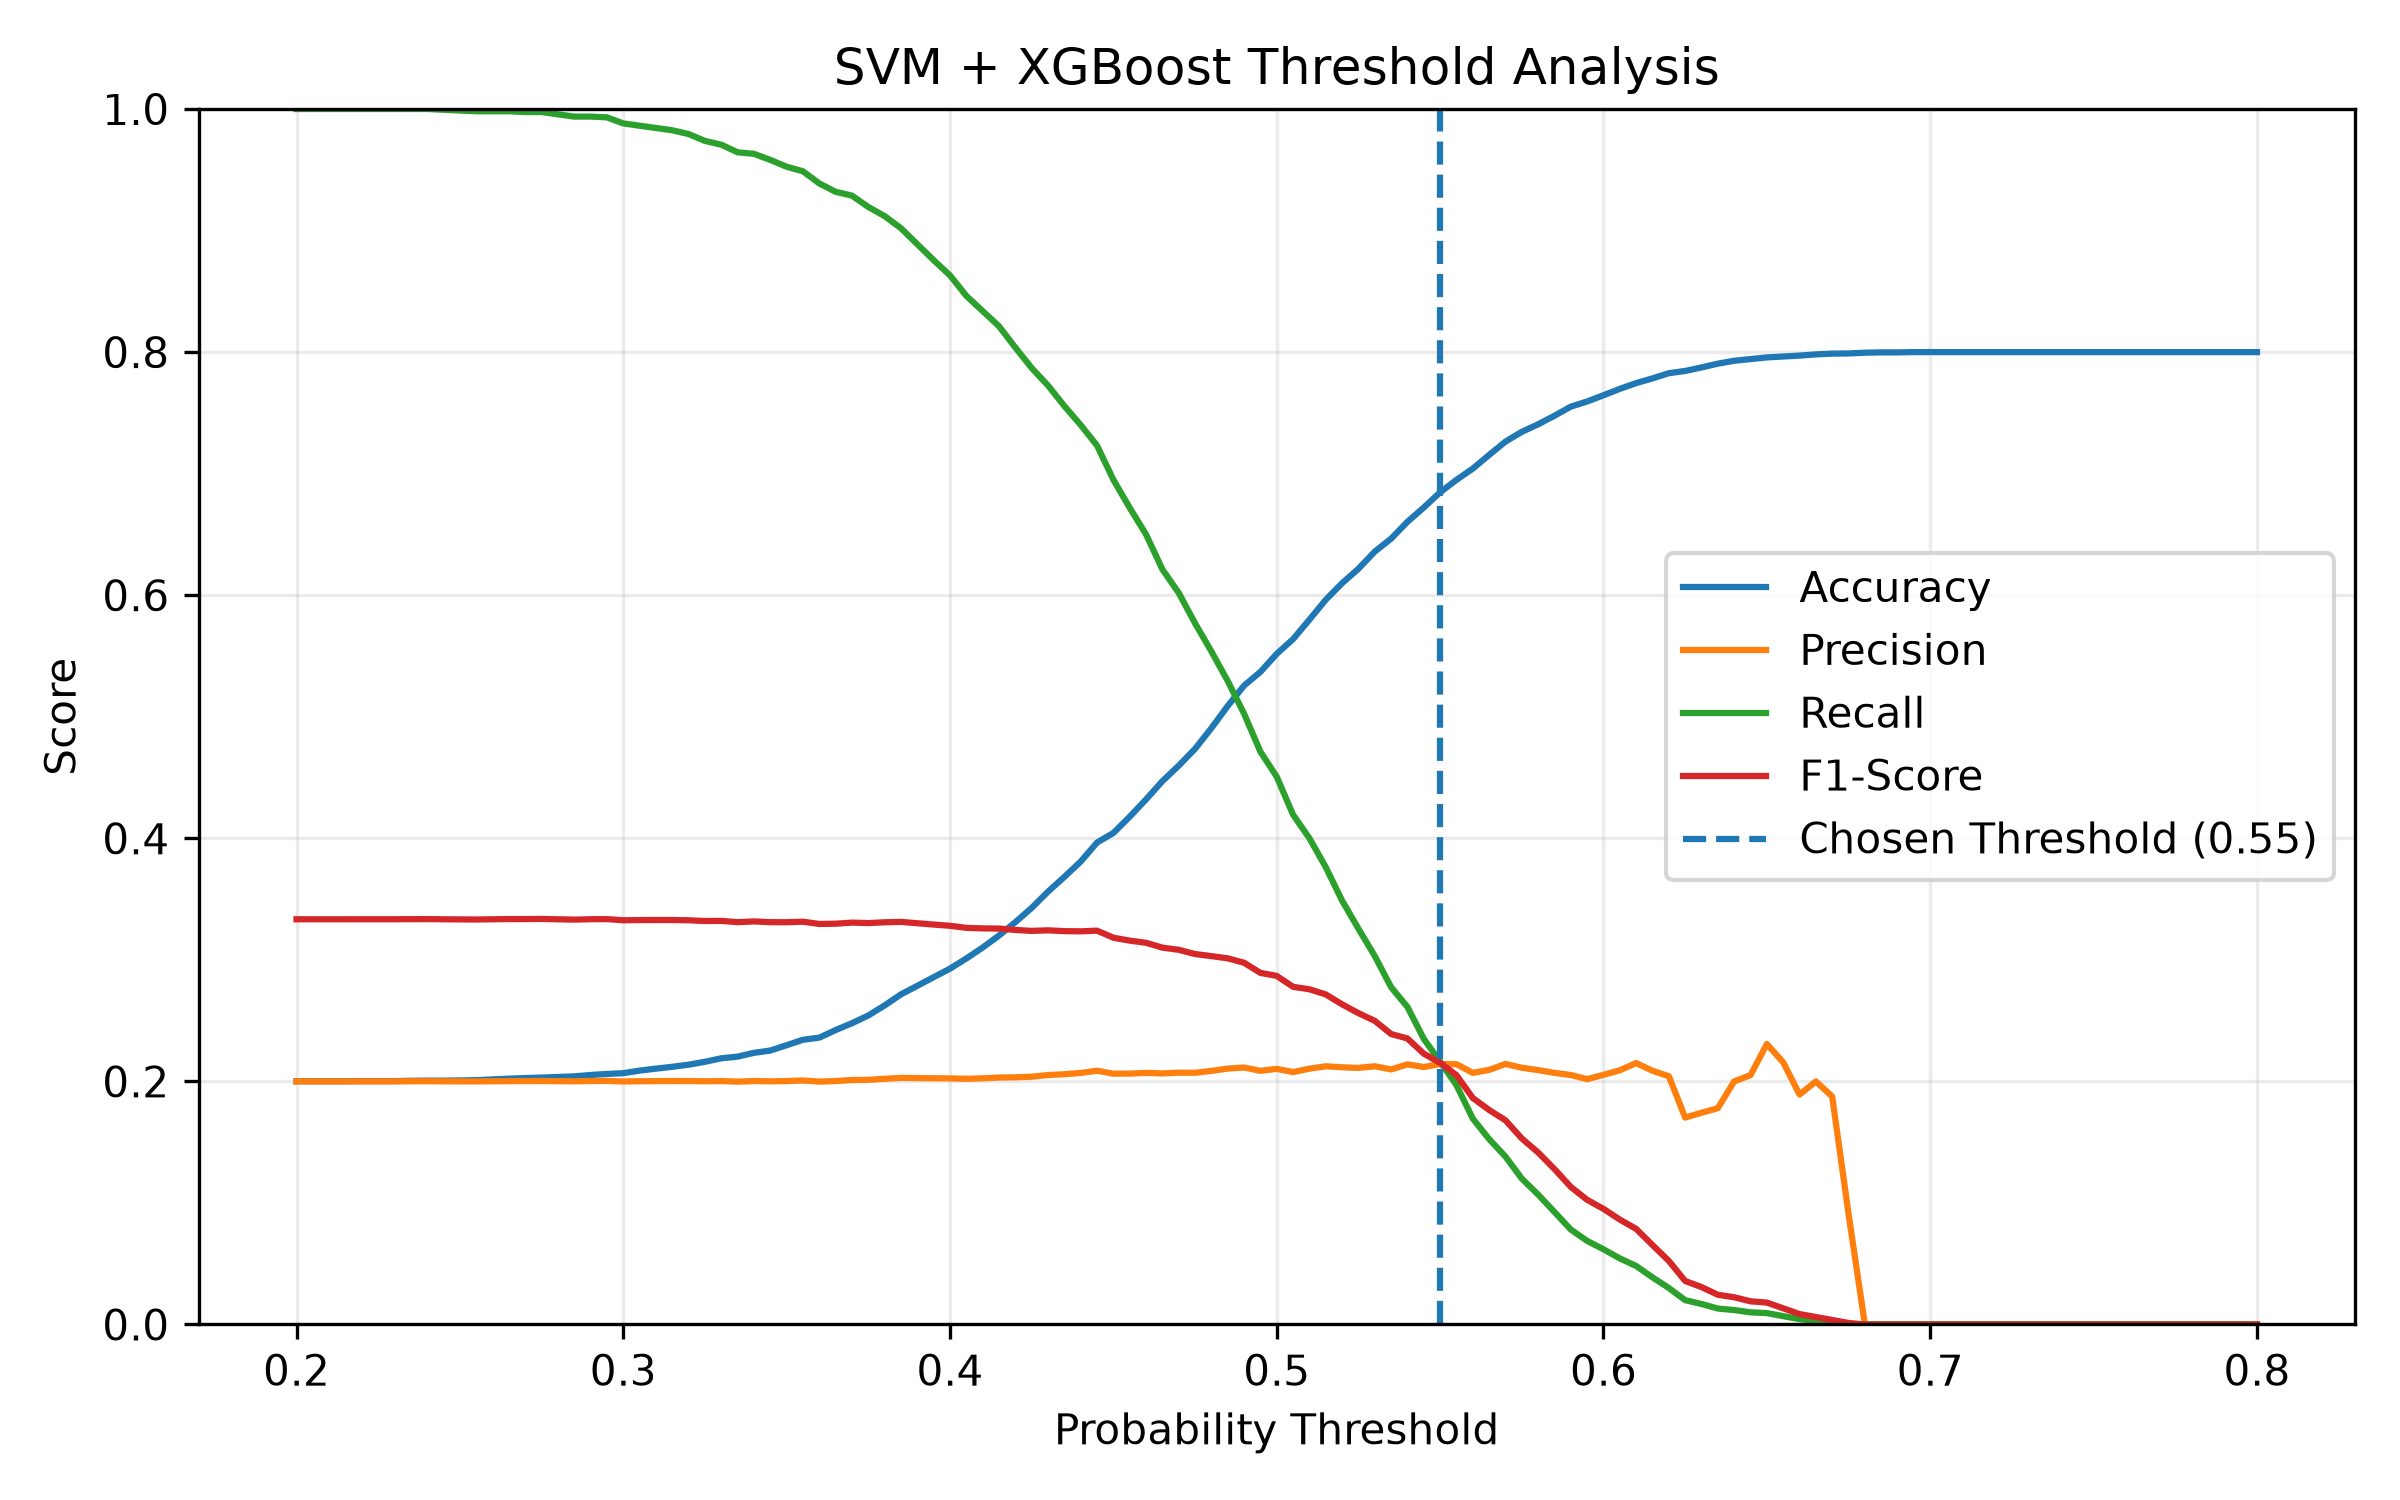
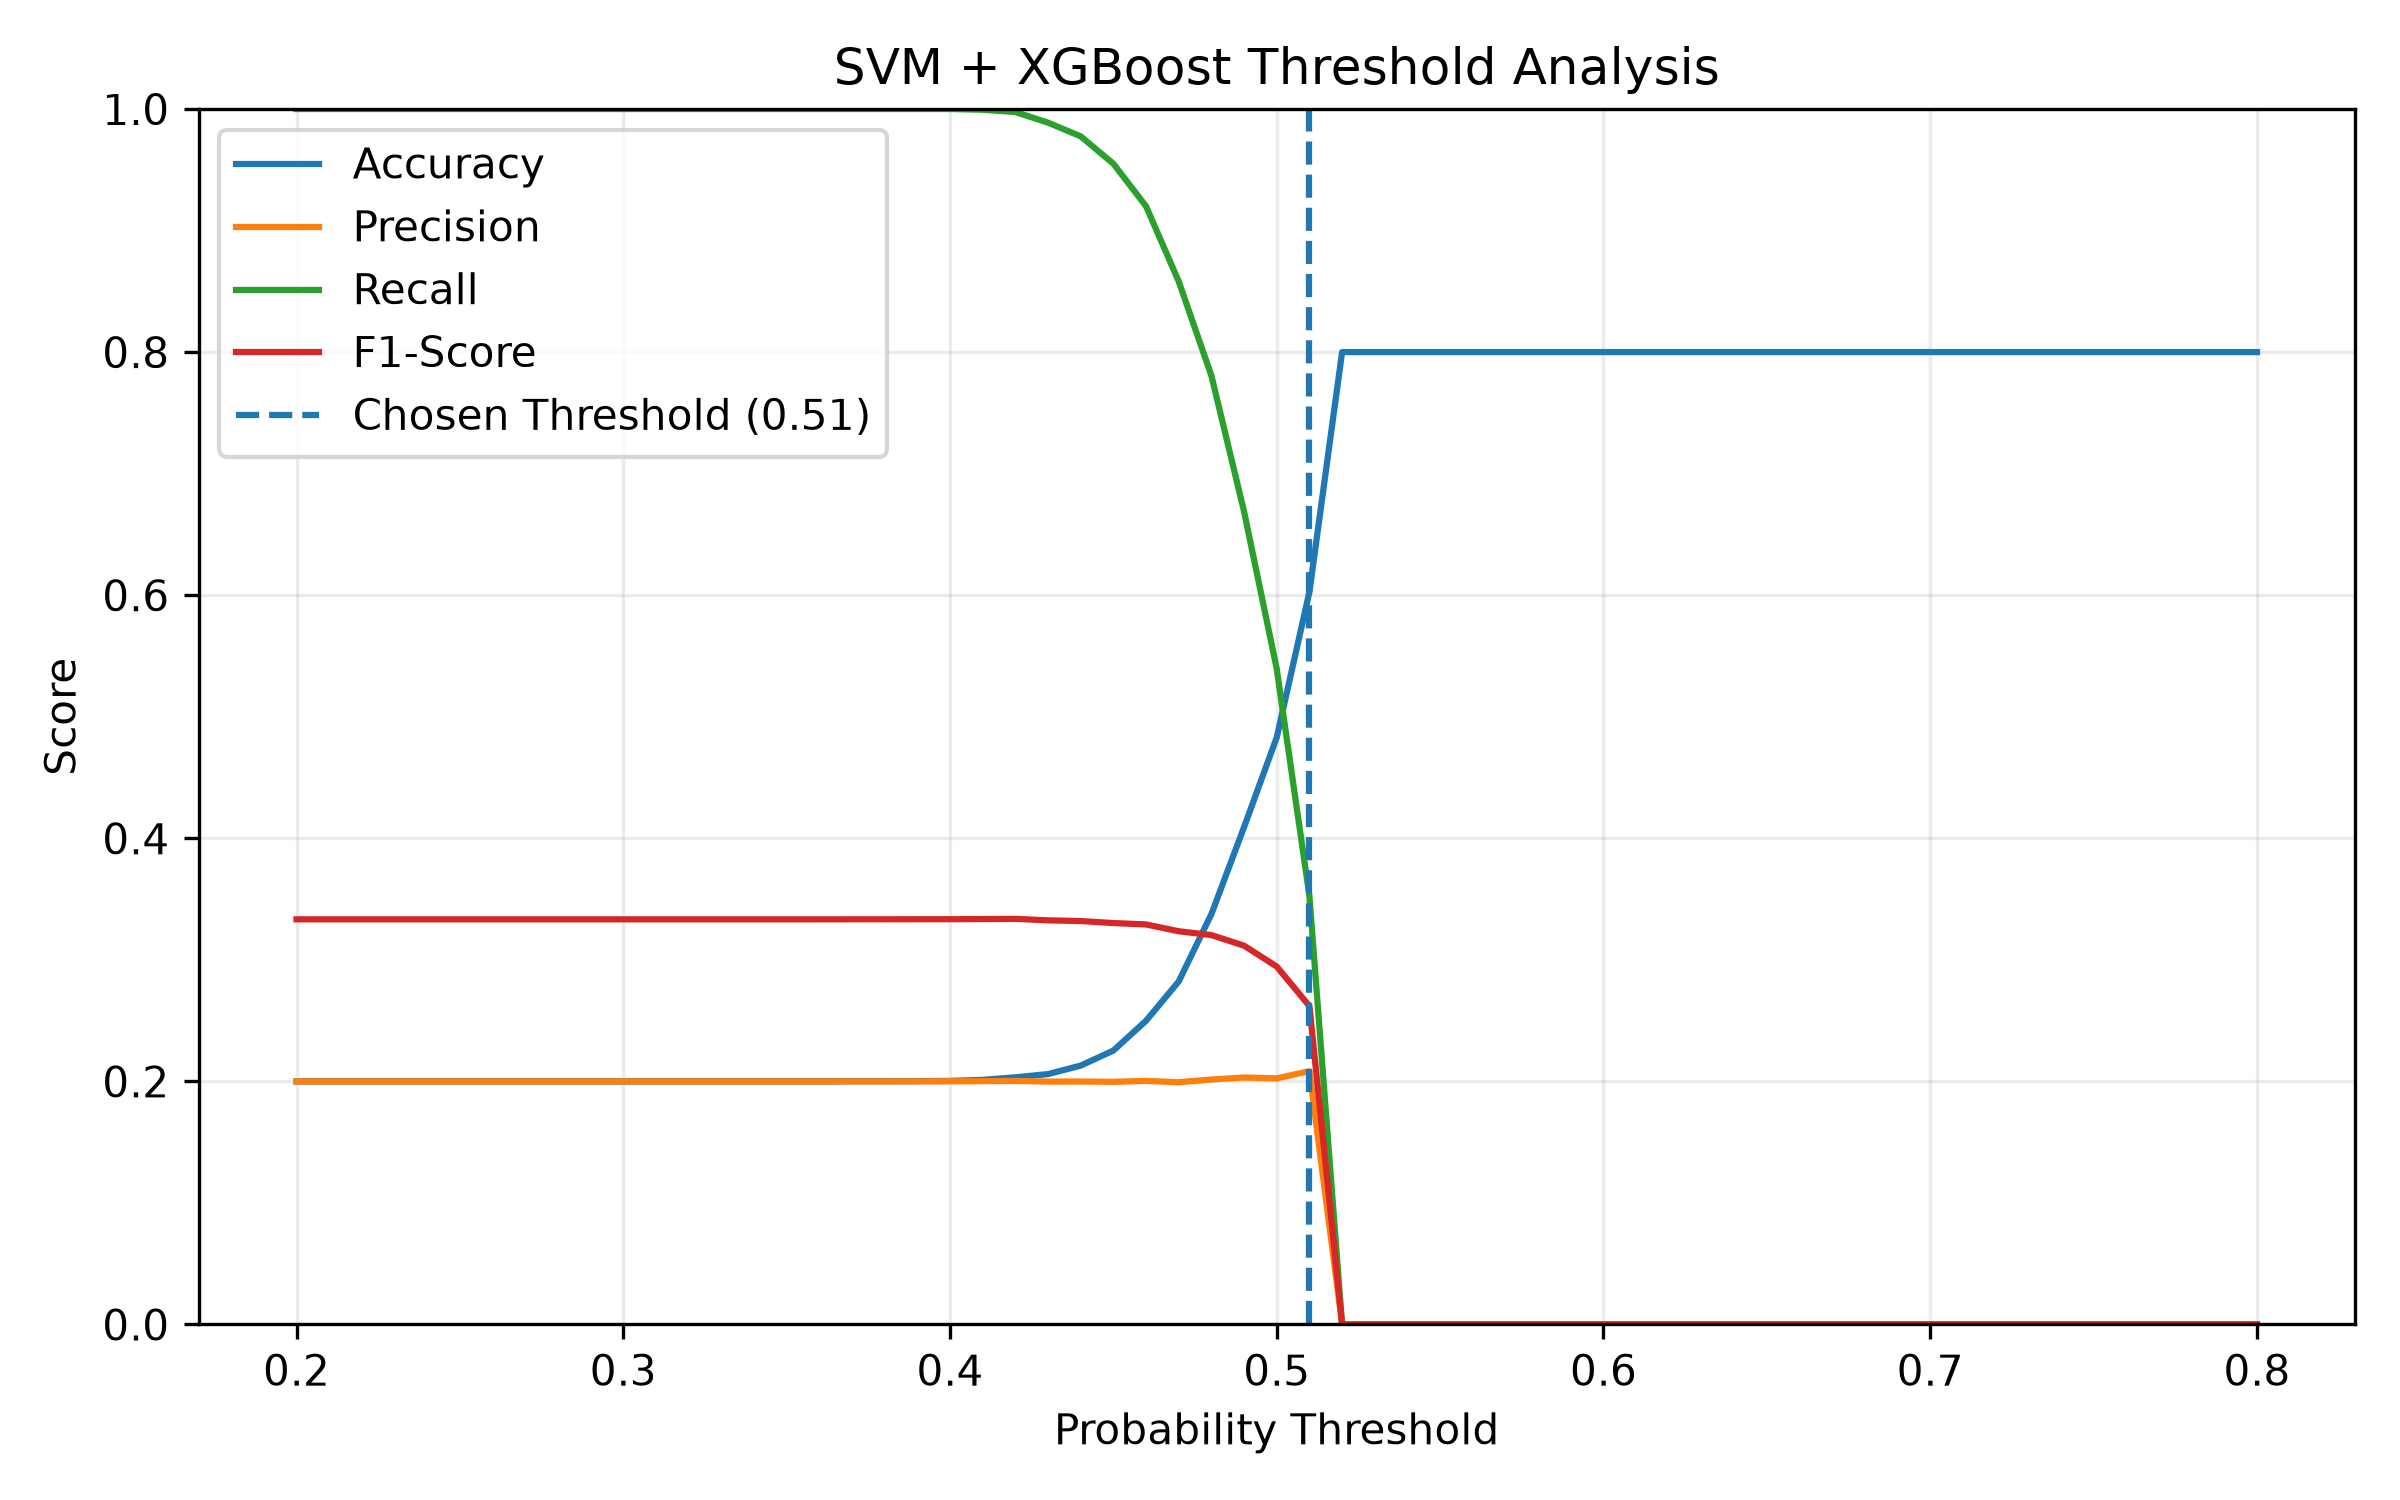
update

diff --git a/UI.py b/UI.py
@@ -5,6 +5,7 @@ import joblib
 import os
 from PIL import Image
 import random
+from SVM_Model.SVM import SVMXGBHybrid
 
 # ---------------------------------------------------------
 # 1. Page Configuration
@@ -40,34 +41,59 @@ def load_rf_artifacts():
         st.error("Random Forest model or scaler missing!")
         return None, None
 
+@st.cache_resource
+def load_svm_artifacts():
+    model_path = 'SVM_Model/best_svm_xgb_hybrid_model.joblib'
+    scaler_path = 'shared_scaler.pkl'
+    if os.path.exists(model_path) and os.path.exists(scaler_path):
+        return joblib.load(model_path), joblib.load(scaler_path)
+    return None, None
+
 lr_model, lr_scaler = load_baseline_artifacts()
 rf_model, rf_scaler = load_rf_artifacts()
+svm_model, svm_scaler = load_svm_artifacts()
 
 # ---------------------------------------------------------
 # 3. Model Selection
 # ---------------------------------------------------------
 st.write("### Select Prediction Model")
-model_choice = st.selectbox("Choose a model:", ["Logistic Regression (Baseline)", "Random Forest"])
+model_choice = st.selectbox(
+    "Choose a model:",
+    ["Logistic Regression (Baseline)", "Random Forest", "SVM"]
+)
 
 if model_choice == "Logistic Regression (Baseline)":
     model, scaler = lr_model, lr_scaler
     metrics_path = 'logistic_regression_model/lr_baseline_metrics.csv'
     cm_path = 'logistic_regression_model/lr_confusion_matrix.png'
     roc_path = 'logistic_regression_model/lr_roc_curve.png'
-else:
+    decision_threshold = 0.5
+elif model_choice == "Random Forest":
     model, scaler = rf_model, rf_scaler
     metrics_path = 'random_forest_model/rf_metrics.csv'
     cm_path = 'random_forest_model/rf_confusion_matrix.png'
     roc_path = 'random_forest_model/rf_roc_curve.png'
+    decision_threshold = 0.5
+else:
+    model, scaler = svm_model, svm_scaler
+    metrics_path = 'SVM_Model/svm_xgb_metrics.csv'
+    cm_path = 'SVM_Model/svm_xgb_confusion_matrix.png'
+    roc_path = 'SVM_Model/svm_xgb_roc_curve.png'
+    threshold_path = 'SVM_Model/svm_xgb_decision_threshold.joblib'
+    decision_threshold = joblib.load(threshold_path) if os.path.exists(threshold_path) else 0.5
+    if model is None:
+        st.warning("SVM model file is missing. Run the SVM training script to enable SVM predictions.")
 
 # ---------------------------------------------------------
 # 3b. Model Comparison Section (Simplified) — moved above tabs
 # ---------------------------------------------------------
 st.markdown("---")
-st.write("## 📊 Model Comparison: Logistic Regression vs Random Forest")
+st.write("## 📊 Model Comparison")
 
+display_metric_columns = ["Accuracy", "Precision", "Recall", "F1-Score", "ROC-AUC"]
 lr_metrics_path = 'logistic_regression_model/lr_baseline_metrics.csv'
 rf_metrics_path = 'random_forest_model/rf_metrics.csv'
+svm_metrics_path = 'SVM_Model/svm_xgb_metrics.csv'
 
 if os.path.exists(lr_metrics_path) and os.path.exists(rf_metrics_path):
     df_lr = pd.read_csv(lr_metrics_path)
@@ -76,8 +102,15 @@ if os.path.exists(lr_metrics_path) and os.path.exists(rf_metrics_path):
     df_lr['Model'] = 'Logistic Regression'
     df_rf['Model'] = 'Random Forest'
 
+    comparison_frames = [df_lr, df_rf]
+    if os.path.exists(svm_metrics_path):
+        df_svm = pd.read_csv(svm_metrics_path)
+        df_svm['Model'] = 'SVM'
+        comparison_frames.append(df_svm)
+
     # Combine and reset index properly
-    df_compare = pd.concat([df_lr, df_rf], ignore_index=True)
+    df_compare = pd.concat(comparison_frames, ignore_index=True)
+    df_compare = df_compare[["Model", *display_metric_columns]]
 
     # Identify best model by F1-Score
     best_model_idx = df_compare['F1-Score'].idxmax()
@@ -170,14 +203,12 @@ with tab1:
             input_df[num_cols] = scaler.transform(input_df[num_cols])
 
             probability = model.predict_proba(input_df)[0][1]
-            prediction = model.predict(input_df)[0]
-
             st.markdown(f"### Diagnosis Result ({model_choice})")
             res_col1, res_col2 = st.columns(2)
             with res_col1:
                 st.metric(label="Calculated Disease Probability", value=f"{probability * 100:.1f}%")
             with res_col2:
-                if prediction == 1 or probability >= 0.5:
+                if probability >= decision_threshold:
                     st.error("⚠ **HIGH RISK**: Patient shows symptoms/risk patterns for Heart Disease.")
                 else:
                     st.success("✅ **LOW RISK**: Patient is unlikely to have Heart Disease.")
@@ -190,7 +221,11 @@ with tab2:
 
     if os.path.exists(metrics_path):
         df_metrics = pd.read_csv(metrics_path)
-        st.dataframe(df_metrics, width="stretch")
+        available_metrics = [
+            column for column in display_metric_columns
+            if column in df_metrics.columns
+        ]
+        st.dataframe(df_metrics[available_metrics], width="stretch")
 
     col_img1, col_img2 = st.columns(2)
     with col_img1:
@@ -303,10 +338,10 @@ with tab3:
 
         # Predict
         df_low['Predicted Probability'] = model.predict_proba(scaled_low)[:, 1]
-        df_low['Predicted Risk'] = np.where(df_low['Predicted Probability'] >= 0.5, "High Risk", "Low Risk")
+        df_low['Predicted Risk'] = np.where(df_low['Predicted Probability'] >= decision_threshold, "High Risk", "Low Risk")
 
         df_high['Predicted Probability'] = model.predict_proba(scaled_high)[:, 1]
-        df_high['Predicted Risk'] = np.where(df_high['Predicted Probability'] >= 0.5, "High Risk", "Low Risk")
+        df_high['Predicted Risk'] = np.where(df_high['Predicted Probability'] >= decision_threshold, "High Risk", "Low Risk")
 
         # Filter mismatched predictions
         df_low = df_low[df_low['Predicted Risk'] == 'Low Risk']

diff --git a/SVM_Model/SVM.py b/SVM_Model/SVM.py
@@ -251,6 +251,16 @@ def main():
     print("Supporting algorithm : XGBoost")
     print("Combination method   : Weighted Soft Voting")
 
+    print("\nBEFORE TUNING: HYBRID MODEL RESULTS")
+    baseline_model = Pipeline([
+        ("smote", create_smote(X_train)),
+        ("hybrid", SVMXGBHybrid())
+    ])
+    baseline_model.fit(X_train, y_train)
+    baseline_probas = baseline_model.predict_proba(X_test)[:, 1]
+    baseline_metrics, _ = calculate_metrics(y_test, baseline_probas, 0.50)
+    print(pd.DataFrame([baseline_metrics]).to_string(index=False))
+
     cv = StratifiedKFold(
         n_splits=5,
         shuffle=True,
@@ -272,7 +282,7 @@ def main():
         "hybrid__xgb_weight": [1, 2, 3]
     }
 
-    print("\nSTARTING HYBRID SVM + XGBOOST TRAINING")
+    print("\nTUNING HYBRID MODEL")
     print("Searching SVM + XGBoost parameters...")
 
     search = RandomizedSearchCV(
@@ -329,25 +339,25 @@ def main():
         index=False
     )
 
-    print("\nFINAL TEST EVALUATION")
+    print("\nAFTER TUNING: HYBRID MODEL RESULTS")
 
     test_probas = best_model.predict_proba(X_test)[:, 1]
-
-    default_metrics, default_pred = calculate_metrics(
-        y_test, test_probas, 0.50
-    )
 
     tuned_metrics, tuned_pred = calculate_metrics(
         y_test, test_probas, decision_threshold
     )
 
-    print("\nDefault threshold = 0.50")
-    for name, value in default_metrics.items():
-        print(f"{name:<10}: {value:.4f}")
-
+    tuning_comparison = pd.DataFrame([
+        {"Stage": "Before Tuning", **baseline_metrics},
+        {"Stage": "After Tuning", **tuned_metrics}
+    ])
     print(f"\nTuned threshold = {decision_threshold:.4f}")
-    for name, value in tuned_metrics.items():
-        print(f"{name:<10}: {value:.4f}")
+    print("\nTUNING COMPARISON")
+    print(tuning_comparison.to_string(index=False))
+    tuning_comparison.to_csv(
+        OUTPUT_DIR / "svm_tuning_comparison.csv",
+        index=False
+    )
 
     y_pred = tuned_pred
     metrics = tuned_metrics
@@ -371,6 +381,9 @@ def main():
         OUTPUT_DIR / "svm_xgb_metrics.csv",
         index=False
     )
+
+    print("\nFINAL OVERALL RESULT")
+    print(pd.DataFrame([tuned_metrics]).to_string(index=False))
 
     joblib.dump(
         best_model,
@@ -479,6 +492,7 @@ def main():
     print("- best_svm_xgb_hybrid_model.joblib")
     print("- svm_xgb_decision_threshold.joblib")
     print("- svm_xgb_metrics.csv")
+    print("- svm_tuning_comparison.csv")
     print("- svm_xgb_threshold_comparison.csv")
     print("- svm_xgb_threshold_metrics.png")
     print("- svm_xgb_confusion_matrix.png")

diff --git a/preprocess.py b/preprocess.py
@@ -109,7 +109,7 @@ def main():
     joblib.dump(scaler, ROOT / 'shared_scaler.pkl')
     df.to_csv(ROOT / 'heart_disease_cleaned_full.csv', index=False)
 
-    print("\n✅ PREPROCESSING COMPLETED")
+    print("\nPREPROCESSING COMPLETED")
 
 if __name__ == '__main__':
     main()
